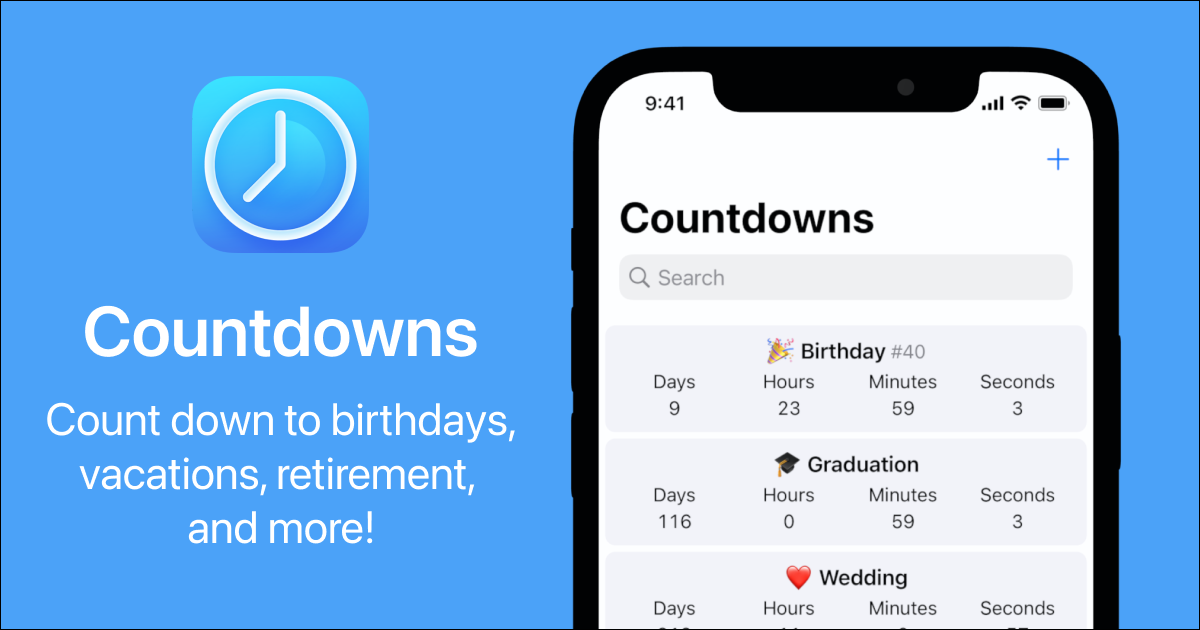
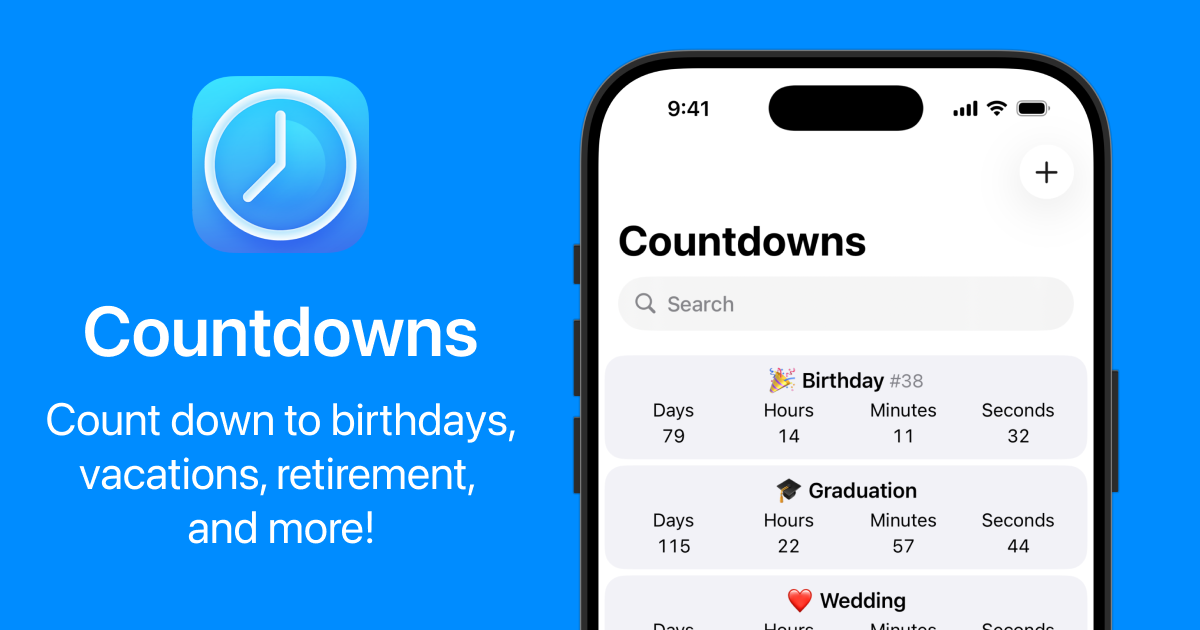
OS 26 updates

diff --git a/_sass/layout.scss b/_sass/layout.scss
@@ -243,7 +243,7 @@ nav > ul li a:active {
 	grid-area: i;
 	display: flex;
 	flex-wrap: wrap;
-	padding-top: 140px;
+	padding-top: 100px;
 	align-content: flex-start;
 }
 
@@ -354,50 +354,26 @@ nav > ul li a:active {
 
 .iphonePreview {
 	grid-area: p;
-	background-image: url($device-color);
-	background-size: 400px auto;
-	background-repeat: no-repeat;
-	margin-top: 68px;
 }
 
 .iphoneScreen {
-	width: 349px;
-	-webkit-clip-path: url(#screenMask);
-	clip-path: url(#screenMask);
-	margin-left: 26px;
-	margin-top: 23px;
+	width: 400px;
+	margin-left: 10px;
+	margin-top: 40px;
 }
-
-@media only screen and (max-width: 1070px) {
-
-	.iphonePreview {
-		background-size: 370px auto;
-	}
-
-	.iphoneScreen {
-		width: 322px;
-		margin-left: 24px;
-		margin-top: 22px;
-	}
-	
-} 
 
 @media only screen and (max-width: 992px) {
 
 	.iphonePreview {
 		display: flex;
-		background-size: 260px auto;
-		background-position: center 0;
-		margin-top: 47px;
+		margin-top: 40px;
 		justify-content: center;
-		padding-bottom: 75px;
+		padding-bottom: 40px;
 	}
 
 	.iphoneScreen {
-		width: 226px;
-		height: 488px;
-		-webkit-clip-path: url(#screenMask);
-		clip-path: url(#screenMask);
+		width: 300px;
+		height: auto;
 		margin: 0px;
 		margin-top: 17px;
 	}
@@ -415,7 +391,7 @@ nav > ul li a:active {
 	justify-content: flex-start;
 	flex-grow: 1;
 	flex-wrap: wrap;
-	margin-top: 93px;
+	margin-top: 40px;
 }
 
 .feature {

diff --git a/_layouts/default.html b/_layouts/default.html
@@ -9,17 +9,7 @@
                 <div class="container">
                     {% include header.html %}
                     <div class="iphonePreview">
-
-                        <svg version="1.1" xmlns="http://www.w3.org/2000/svg" xmlns:xlink="http://www.w3.org/1999/xlink" viewBox="0 0 0 0" style="position: absolute;">
-                            <clipPath id="screenMask" clipPathUnits="objectBoundingBox" transform="scale(0.00257, 0.00119)">
-                                <path d="M6490.24,1234.36H6216.28c-2.57,0-10.55-.07-12.07-0.07a87.524,87.524,0,0,1-12-1.03,40.051,40.051,0,0,1-11.4-3.79,38.315,38.315,0,0,1-16.82-16.84,39.948,39.948,0,0,1-3.78-11.42,72.257,72.257,0,0,1-1.04-12.02c-0.06-1.83-.06-5.56-0.06-5.56V452.125h0s0.06-11.391.06-12.086a87.9,87.9,0,0,1,1.04-12.025,39.843,39.843,0,0,1,3.78-11.413,38.283,38.283,0,0,1,16.82-16.847,39.762,39.762,0,0,1,11.4-3.785,71.909,71.909,0,0,1,12-1.037c16.99-.567,36.32-0.061,34.51-0.061,5.02,0,6.5,3.439,6.63,6.962a35.611,35.611,0,0,0,1.2,8.156,21.326,21.326,0,0,0,19.18,15.592c2.28,0.192,6.78.355,6.78,0.355H6433.7s4.5-.059,6.79-0.251a21.348,21.348,0,0,0,19.18-15.591,35.582,35.582,0,0,0,1.19-8.154c0.13-3.523,1.61-6.962,6.64-6.962-1.81,0,17.52-.5,34.5.061a71.923,71.923,0,0,1,12.01,1.038,39.832,39.832,0,0,1,11.4,3.784,38.283,38.283,0,0,1,16.82,16.844,40.153,40.153,0,0,1,3.78,11.413,87.844,87.844,0,0,1,1.03,12.023c0,0.695.06,12.084,0.06,12.084h0V1183.64s0,3.72-.06,5.55a72.366,72.366,0,0,1-1.03,12.03,40.2,40.2,0,0,1-3.78,11.41,38.315,38.315,0,0,1-16.82,16.84,40.155,40.155,0,0,1-11.4,3.79,87.669,87.669,0,0,1-12.01,1.03c-1.52,0-9.5.07-12.07,0.07" transform="translate(-6159.12 -394.656)"/>
-                            </clipPath>
-                        </svg>
-                        
-                        <img class="iphoneScreen hidden" src="" alt="">
-
-                        {% include screencontent.html %}
-
+                        <img class="iphoneScreen" src="assets/screenshot.png" alt="Countdowns iOS App Screenshot">
                     </div>
                     <div class="appInfo">
                         <div class="appIconShadow">